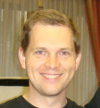
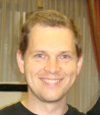
resize speakers photos

diff --git a/jug/speakers/_posts/2010-01-26-guillaume_bort.md b/jug/speakers/_posts/2010-01-26-guillaume_bort.md
@@ -1,7 +1,7 @@
 ---
 layout: speaker
 title: Guillaume Bort
-photo: guillaume_bort.jpeg
+photo: guillaume_bort.jpg
 ---
 
 ###Guillaume Bort###
